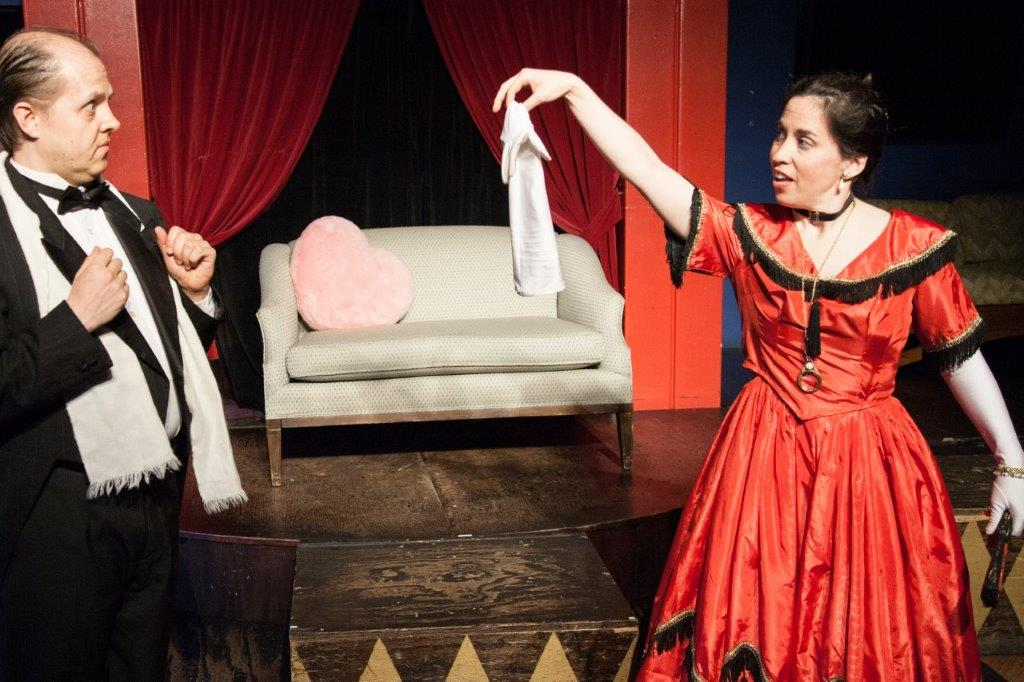
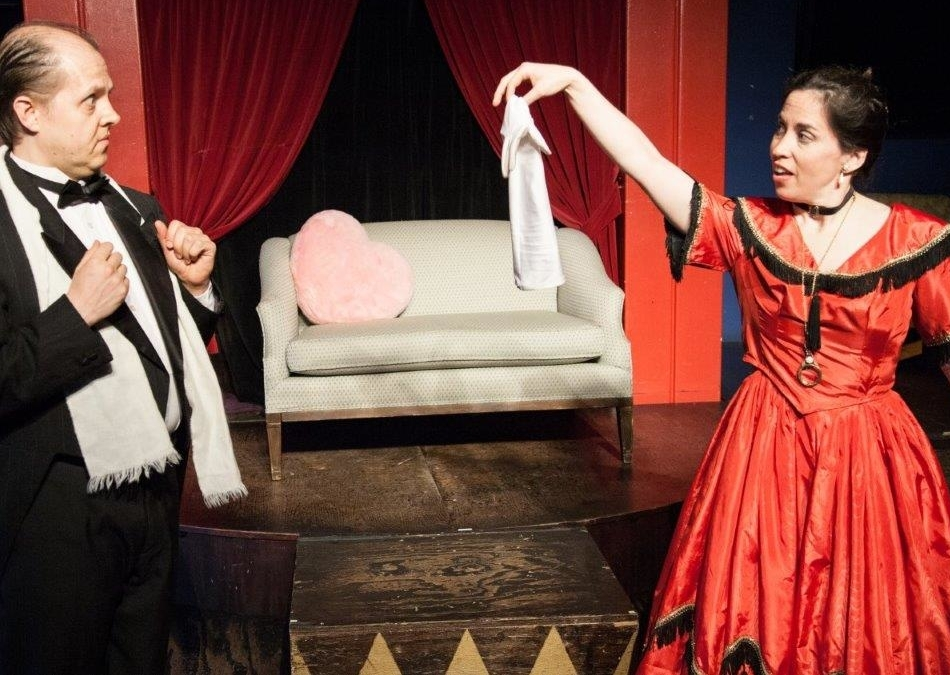
resized overruled 2014

diff --git a/_productions/overruled_042014.md b/_productions/overruled_042014.md
@@ -25,7 +25,7 @@ cast:
 
 images:
   - url: /assets/images/IMG_0625.jpg
-  - url: /assets/images/IMG_0656.jpg
+  - url: /assets/images/IMG_0656b.jpg
   - url: /assets/images/IMG_0719.jpg
   - url: /assets/images/IMG_0756.jpg
   - url: /assets/images/IMG_0743.jpg
